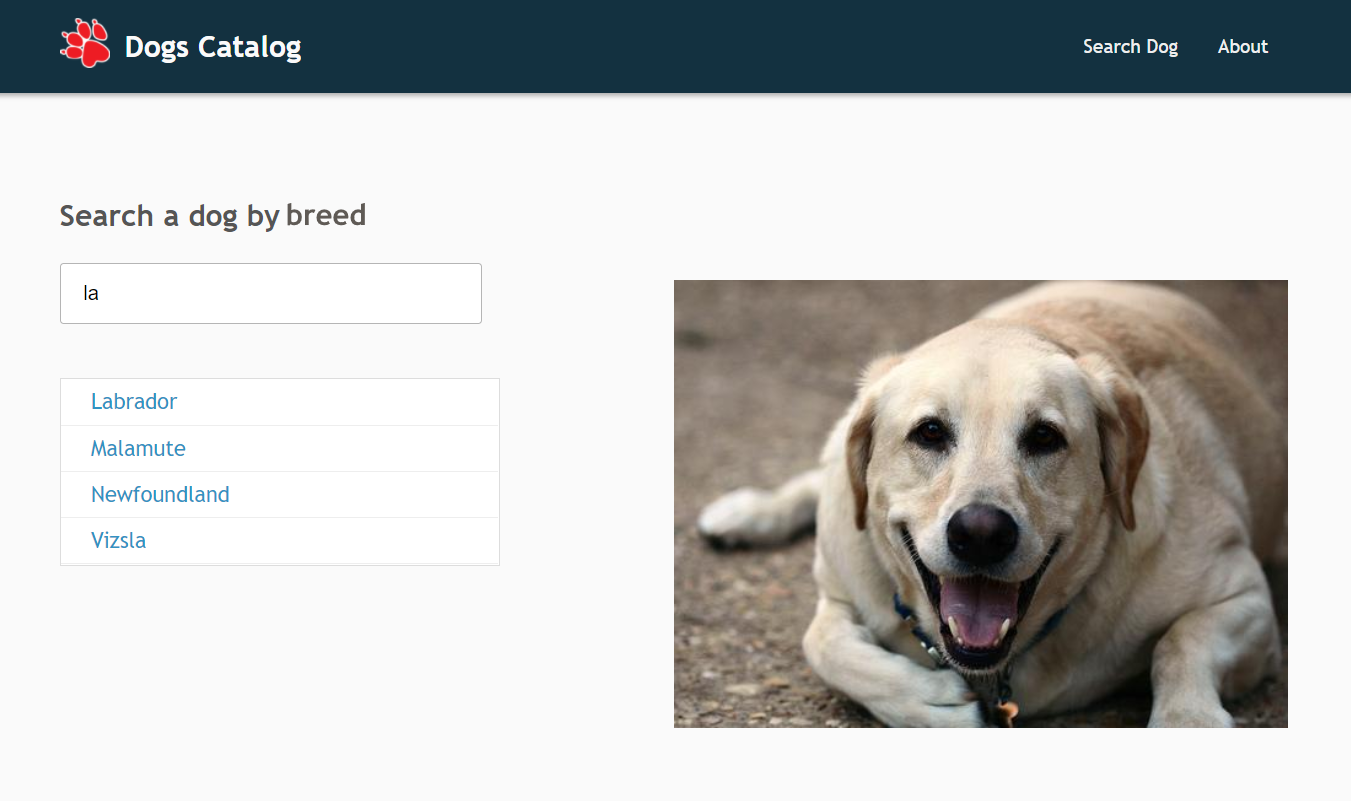
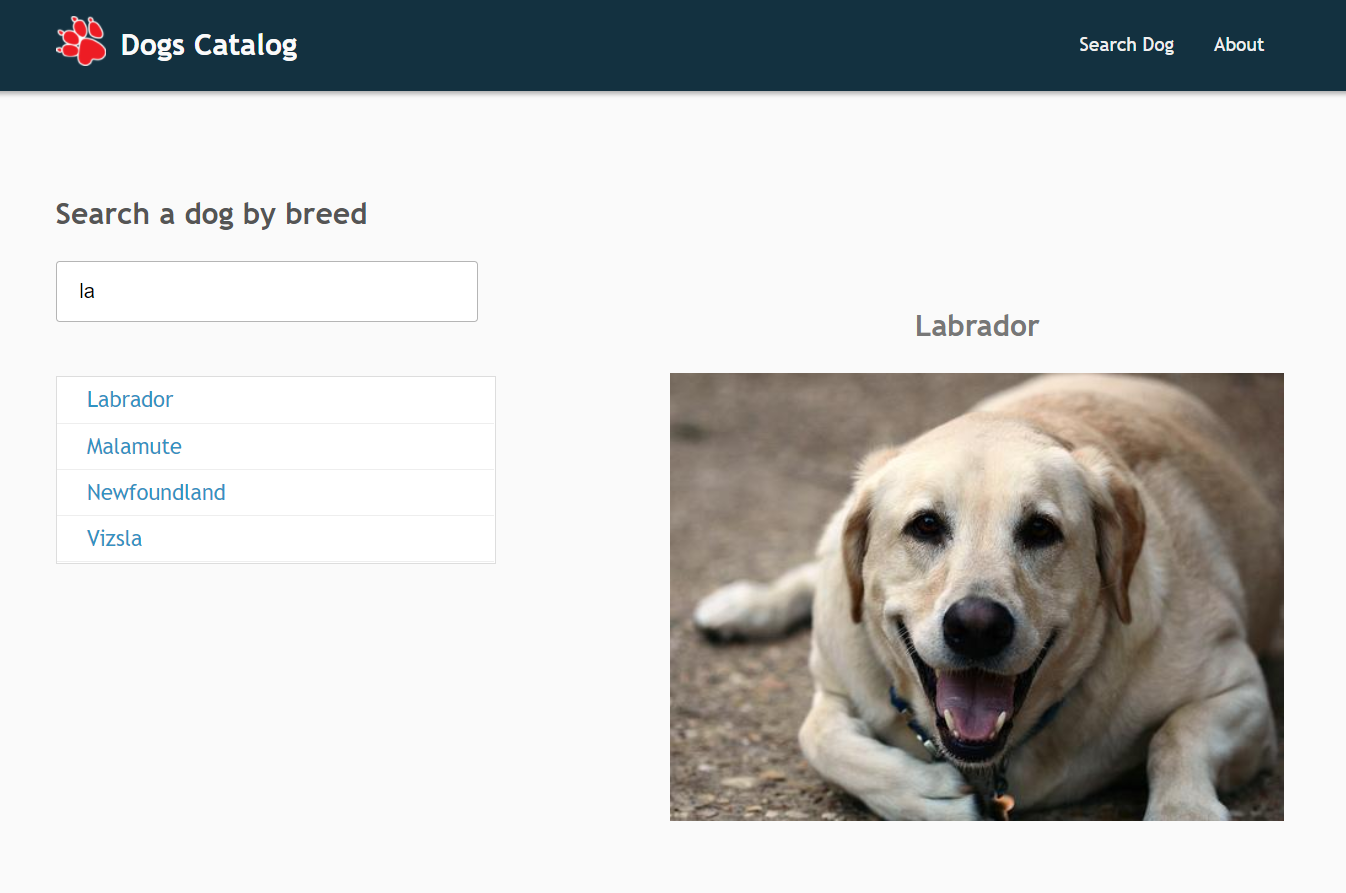
Dog name, fix preview & about

diff --git a/src/components/SearchDog/index.jsx b/src/components/SearchDog/index.jsx
@@ -8,6 +8,7 @@ class SearchDog extends Component {
     super(props)
     this.state = {
       showImage: true,
+      dogName: '',
       dogImage: 'https://s3.amazonaws.com/nd.images/uploads/paw_gplus.png',
       dogList: [],
       dogListFiltered: []
@@ -26,7 +27,7 @@ class SearchDog extends Component {
       <div id="SearchDog">
         <div id='search-panel'>
           <h3 id='title-search'>Search a dog by breed</h3>
-          <input className='search-input' type='text' placeholder='Enter raze to search' onChange={ this.filterDogList.bind(this) } />
+          <input className='search-input' type='text' placeholder='Enter breed to search' onChange={ this.filterDogList.bind(this) } />
           <br /><br />
           <span className={ this.state.dogList.length ? 'hide' : ''}>Loading List</span>
           <ul id='result-list'>
@@ -34,6 +35,7 @@ class SearchDog extends Component {
           </ul>
         </div>
         <div id='photo-panel'>
+          <h3 className='dog-name'>{this.state.dogName}</h3>
           <img src={this.state.dogImage} />
           <h5 className={ this.state.showImage ? 'hide' : ''}>Loading Image...</h5>
         </div>
@@ -68,13 +70,14 @@ class SearchDog extends Component {
     })
   }
 
-  loadDogImage(raze) {
+  loadDogImage(breed) {
     if (!this.state.showImage) return
     this.setState({
       showImage: false,
-      dogImage: null
+      dogImage: null,
+      dogName: breed
     })
-    $axios.get('https://dog.ceo/api/breed/' + raze + '/images/random')
+    $axios.get('https://dog.ceo/api/breed/' + breed + '/images/random')
     .then((res) => {
       this.setState({
         showImage: true,

diff --git a/src/components/About/index.jsx b/src/components/About/index.jsx
@@ -4,7 +4,7 @@ class About extends Component {
   render () {
     return (
       <div>
-        <p>Project using ReactJS, Axios & Webpack for load images of dogs by raze from DogCEO</p>
+        <p><b>Project using ReactJS, Axios & Webpack for load images of dogs by breed from DogCEO</b></p>
         <label>By chandyalexcr</label>
       </div>
     )

diff --git a/src/components/SearchDog/styles.scss b/src/components/SearchDog/styles.scss
@@ -11,6 +11,10 @@
   #photo-panel {
     text-align: center;
     margin-top: 12vh;
+    .dog-name {
+      text-transform: capitalize;
+      font-size: 18pt;
+    }
     img {
       width: 100%;
     }

diff --git a/config/webpack-dev.config.js b/config/webpack-dev.config.js
@@ -14,7 +14,6 @@ module.exports = {
     port: 8080,
     open: false,
     hot: true,
-    quiet: true,
     overlay: true,
     clientLogLevel: 'none',
     historyApiFallback: true
